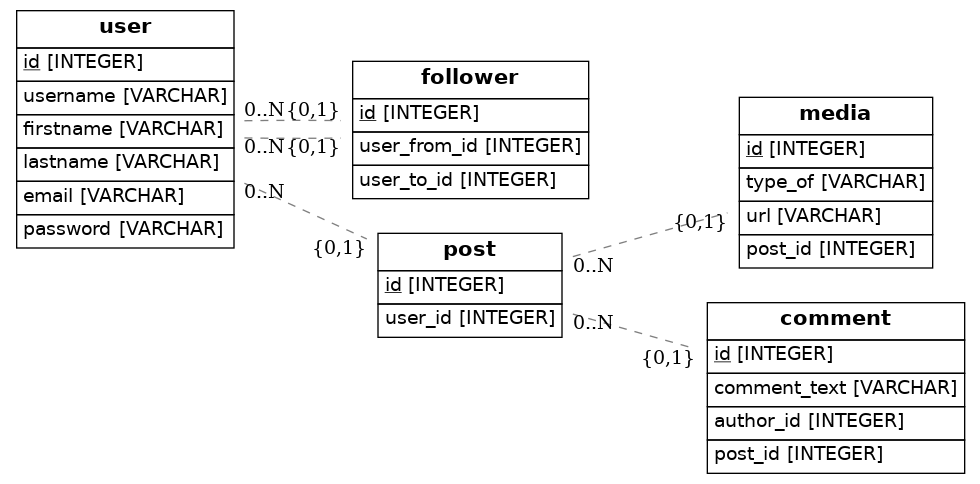
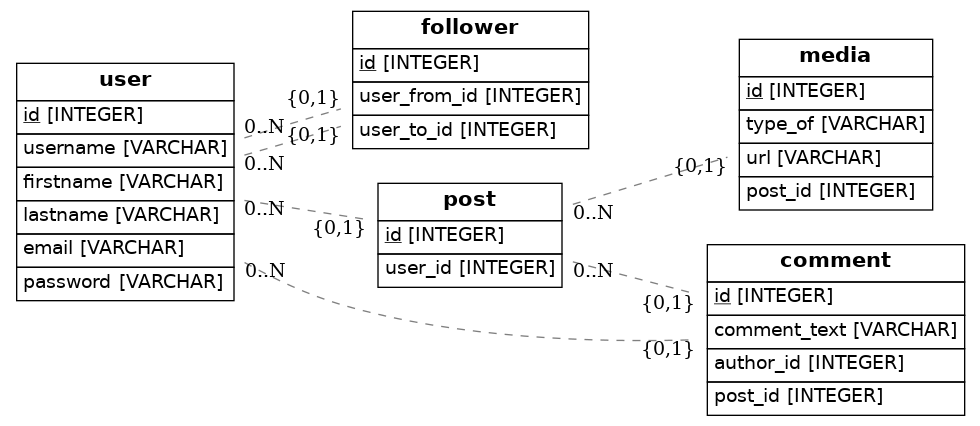
final commit

Changed region(s): [[0.0, 0.0, 0.6429, 0.7324], [0.6429, 0.0915, 0.9796, 1.0]]

diff --git a/src/models.py b/src/models.py
@@ -48,7 +48,7 @@ class Comment(Base):
     id = Column(Integer, primary_key=True)
     comment_text = Column(String)
     author = relationship(User)
-    author_id = Column(Integer, ForeignKey('author.id'), nullable=True)
+    author_id = Column(Integer, ForeignKey('user.id'), nullable=True)
     post = relationship(Post)
     post_id = Column(Integer, ForeignKey('post.id'), nullable=True)
 
